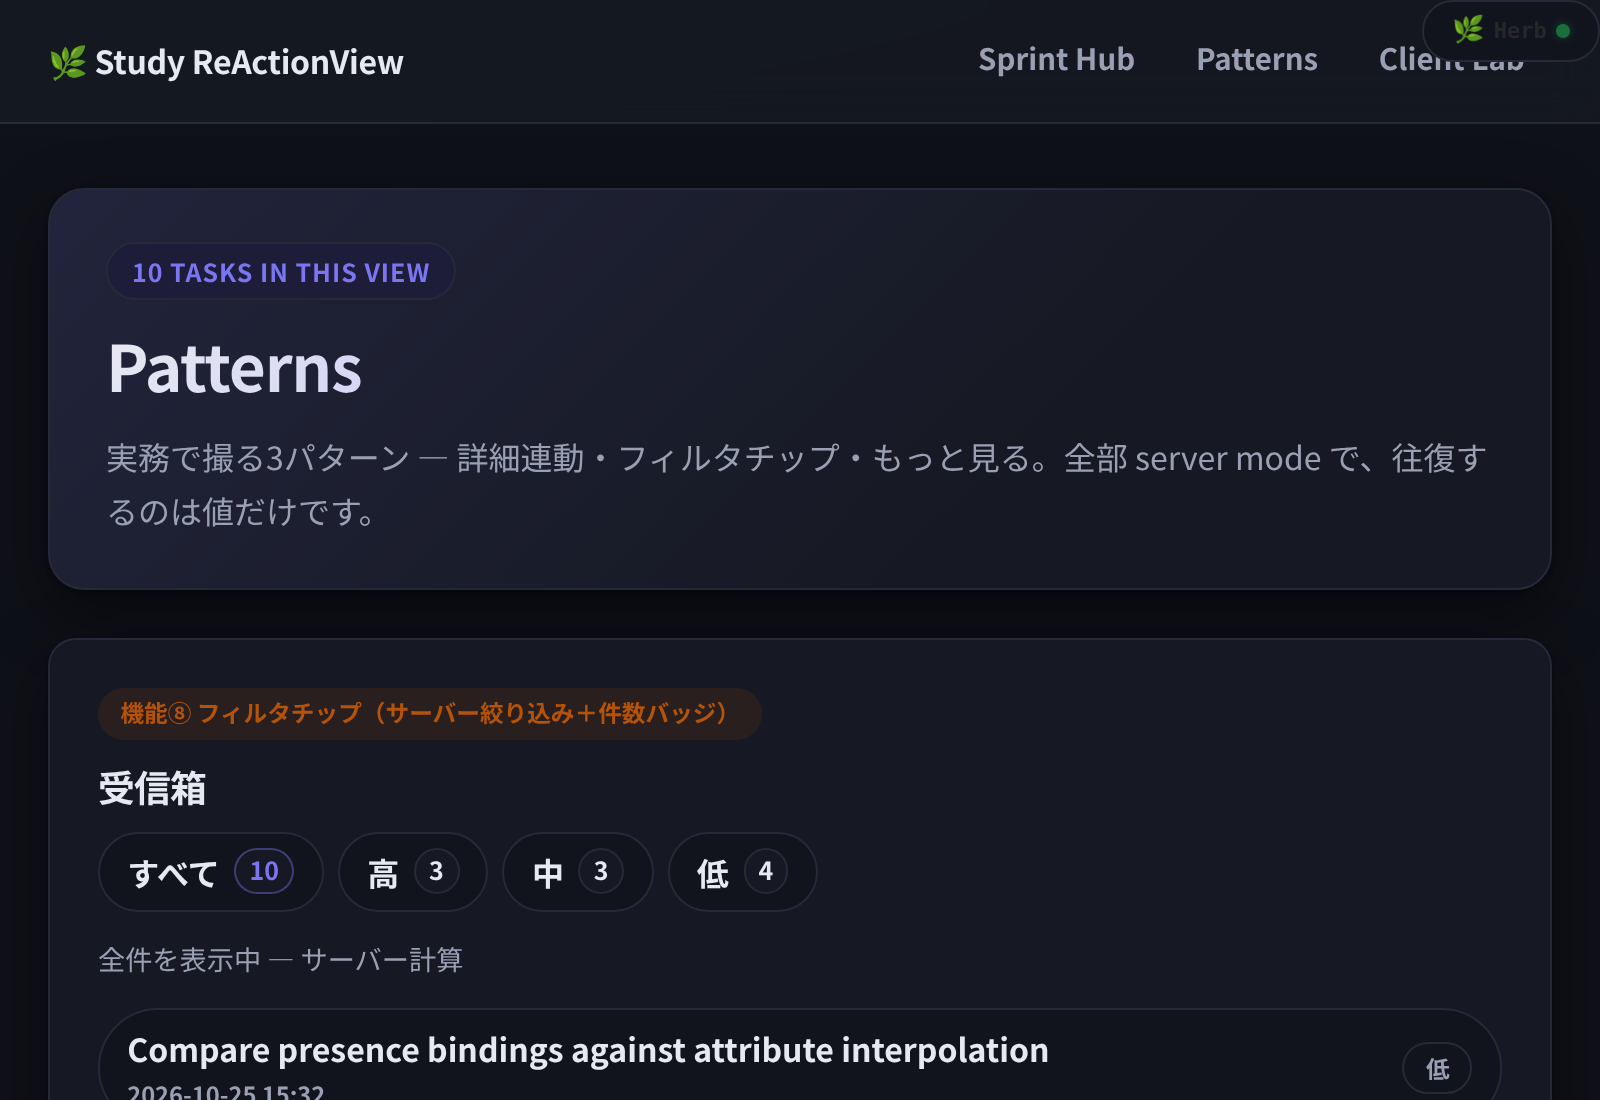
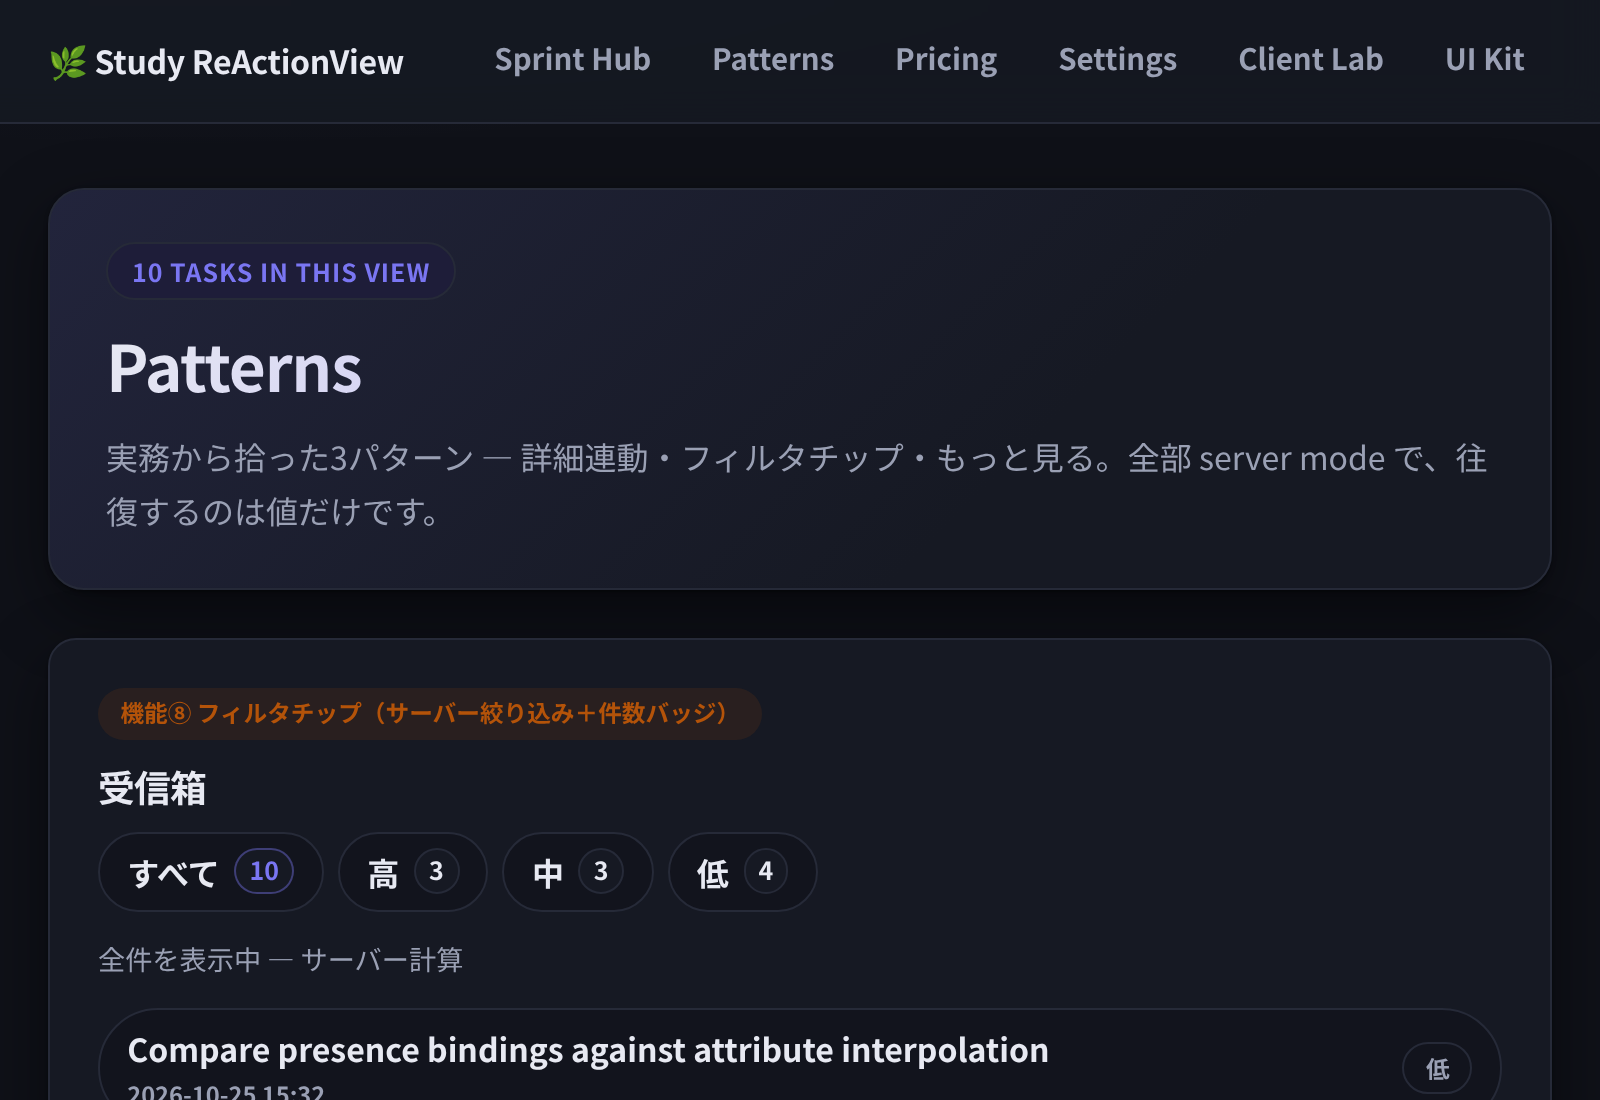
feat(settings): タブと依存フィールドをhiddenパネルに切り替え、メディアとドキュメントを追加 — parked分岐の初期値materializeを避けて0往復を保つため
トップレベルのparkedタブ分岐では、分岐内のdigest: trueがfalse側、checkedが未適用でmaterializeされた。3パネルをhiddenのpresenceで常にDOMに置き、依存フィールドも同じ形にした。プローブで全操作0 slotsを再確認し、17-settings.gifとstills、6リンクナビの既存stills/Hub 03/04を撮り直した。

diff --git a/test/controllers/settings_controller_test.rb b/test/controllers/settings_controller_test.rb
@@ -17,6 +17,8 @@ class SettingsFlowTest < ActionDispatch::IntegrationTest
     assert_select "h1", "Settings"
     assert_select ".settings-nav button", count: 3
     assert_select '.settings-nav button[aria-pressed="true"]', count: 1
+    assert_select ".settings-tab-panel", count: 3
+    assert_select ".settings-tab-panel[hidden]", count: 2
     assert_select "#settings_name"
     assert_select "#settings_email"
     assert_select "#settings_bio"
@@ -49,14 +51,15 @@ class SettingsFlowTest < ActionDispatch::IntegrationTest
       .flat_map { |c| Array(c["arms"]) }
       .map { |a| a["condition"]&.first }
       .compact
-    %w[tab public_profile dirty saved].each { |name| assert_includes conditions, name }
+    %w[dirty saved].each { |name| assert_includes conditions, name }
 
     presence = states["presence"].values.select { |p| p.is_a?(Array) }.map(&:first)
-    assert_includes presence, "can_save", "the save button's disabled is a presence read"
-    assert_includes presence, "public_profile", "the switch binds its boolean state"
+    %w[tab public_profile can_save].each do |name|
+      assert_includes presence, name, "#{name} is a hidden/checked/disabled presence read"
+    end
   end
 
-  test "notifications and billing panels are parked with dependent fields" do
+  test "notifications and billing panels are hidden with dependent fields" do
     get settings_path
 
     assert_includes response.body, "まとめ通知"
@@ -66,6 +69,9 @@ class SettingsFlowTest < ActionDispatch::IntegrationTest
     assert_includes response.body, 'data-herb-set="plan=starter dirty=true saved=false"'
     assert_includes response.body,
       'data-herb-reset="name email bio public_profile handle digest frequency updates plan annual invoice_name dirty saved"'
+    assert_select "#settings_handle[hidden]", count: 0
+    assert_select "div[hidden] #settings_handle", count: 1
+    assert_select "div[hidden] #settings_invoice_name", count: 1
   end
 
   test "the manifest declares the notification and billing states" do
@@ -76,12 +82,6 @@ class SettingsFlowTest < ActionDispatch::IntegrationTest
     %w[digest frequency updates plan annual invoice_name].each do |name|
       assert_includes names, name
     end
-
-    conditions = states["conditionals"].values
-      .flat_map { |c| Array(c["arms"]) }
-      .map { |a| a["condition"]&.first }
-      .compact
-    %w[digest annual].each { |name| assert_includes conditions, name }
 
     presence = states["presence"].values.select { |p| p.is_a?(Array) }.map(&:first)
     %w[digest updates annual].each { |name| assert_includes presence, name }

diff --git a/AGENTS.md b/AGENTS.md
@@ -15,6 +15,8 @@
 5画面目 `Pricing`（`/pricing`）: server mode の SaaS 見積もり。プラン・席数・年払い・サポートの4 state、
 サーバー計算、金額は READ slot、表示は state の表示属性（`data-active` / `hidden` の presence）
 （docs/hotwire-comparison.md の対比5）。
+6画面目 `Settings`（`/settings`）: client mode の設定フォーム。3タブ・依存フィールド・明示 dirty・
+デモ保存を、全操作 0 往復で扱う（下の実測メモ）。
 
 ## 作業規約（必ず守る）
 
@@ -208,9 +210,36 @@
   スコープしない既存ルールが pin にも当たり、done の取り消し線/背景が星で発火する。
 - **done と pin は独立**: ピンを2つ点けても done_count は動かず、done を1つ点けても
   pinned_count は 2 のまま（プローブで確認）。リロードで pin は消える（クライアント所有）。
-- **Hub の静止画/GIF は日本語フォントスタック**: `app.css` の `"Hiragino Sans"` /
+- **Hub と Settings の静止画/GIF は日本語フォントスタック**: `app.css` の `"Hiragino Sans"` /
   `"Noto Sans CJK JP"` / Meiryo / `"Yu Gothic"` を先に置き、キャプチャ側で `system-ui` だけの
   fallback に戻さない。
+
+## Settings 画面で実測した事実（0.6.0 / herb 0.11.1）
+
+- **トップレベルの parked タブ分岐は、分岐内の boolean バインディングと入れ子の分岐を初期値で
+  materialize する**: Settings のタブを `<% if tab == ... %>` で組むと、Notifications タブを開いても
+  `digest: true` の switch が unchecked、`if digest` の頻度フィールドが false 側で出た（headless Chromium）。
+  `hidden="<%= tab != ... %>"` の3パネルを常に DOM に置くと、switch の見た目も入力値も正しく保たれ、
+  タブ切替は 0 slots リクエストになる。依存フィールドも同じ `hidden` の presence で出し分ける。
+- **パネル単位の input/change ラッパーで dirty を合成できる**: パネルの
+  `data-herb-set="input->dirty=true saved=false change->dirty=true saved=false"` は、
+  自動バインドされた value / checked の書き込みと同居する。タブ切替はラッパーの外なので dirty にならない。
+- **`can_save: dirty && form_ok` を分割する**: `form_ok` は `name_ok` / `email_ok` / `bio_ok` / `handle_ok`
+  の AND、`handle_ok` は `!public_profile || handle != ""` の OR。保存ボタンは
+  `disabled="<%= !can_save %>"` の単一否定だけを読む。空の表示名・公開プロフィールで空のハンドル・
+  121字の自己紹介が、それぞれ保存を無効にすることをプローブで確認した。
+- **プランと頻度は literal set のボタン**: `data-herb-set="frequency=daily dirty=true saved=false"` は
+  空白区切りの別 binding として1クリックで両方動く。`data-herb-reset` の後も `aria-pressed` が
+  state から戻る（Team と毎週に戻ることをプローブで確認）。`<select>` は使わない — リセット後の
+  選択表示を state の読みで保証するため。
+- **保存はデモ**: `dirty=false saved=true` にするだけで、DB には書かない。リセットは書き込み可能な
+  state だけを初期値へ戻す（派生 state と `tab` は含めない）。リロードで全 state が初期値に戻る。
+  タブ切替・依存フィールド・dirty/save/reset・タブの往復・リロードは、すべて 0 slots リクエスト
+  （`/tmp/opencode/capture/settings-probe.js`）。
+- **6リンクナビに合わせて既存メディアを撮り直した**: Settings をグローバルナビに足したため、
+  Hub / Patterns / Client Lab / Pricing の stills と Hub の 03 / 04 GIF を再撮影した。
+  Settings の静止画/GIF は日本語フォントスタックで撮り、CDP の `CSS.getPlatformFontsForNode` で
+  実フォントが `Noto Sans CJK JP` であることを確認した。
 
 ## ブラウザ実測（headless Chromium・録画環境）で確定した事実
 

diff --git a/docs/superpowers/plans/2026-10-28-settings-screen.md b/docs/superpowers/plans/2026-10-28-settings-screen.md
@@ -6,6 +6,8 @@
 
 **Architecture:** A single client-mode template declares the form states and their derived gates (`name_ok`, `email_ok`, `bio_ok`, `handle_ok`, `form_ok`, `can_save`, `over`). Tabs and dependent fields are top-level parked branches. A panel-level `input`/`change` wrapper marks the form dirty; plan/frequency buttons carry their own literal sets so no `$value` + literal mixing is needed. Save/reset are browser state only.
 
+> **Implementation ruling (2026-10-28, Task 3):** the parked tab branches were replaced with `hidden` presence panels. The browser probe showed the parked branch materialized its nested `digest` arm false and left the boolean `checked` binding unapplied, so the frequency controls disappeared while the switch rendered off. The tab/dependent markup in Tasks 1–2 below is superseded by that ruling; the measured result is 0 slots requests.
+
 **Tech Stack:** Rails 8.1, Ruby 4.0.9, ReActionView 0.6.0, Herb 0.11.1, Minitest integration tests, plain CSS, Playwright capture outside the repo.
 
 **Spec:** `docs/superpowers/specs/2026-10-28-settings-screen-design.md`

diff --git a/docs/superpowers/specs/2026-10-28-settings-screen-design.md b/docs/superpowers/specs/2026-10-28-settings-screen-design.md
@@ -5,6 +5,11 @@
 - 対象: `/settings`
 - 前提: ReActionView 0.6.0 / herb 0.11.1
 
+> **実装時の裁定（2026-10-28、Task 3）**: タブは当初の設計どおりトップレベル分岐で実装したが、
+> ブラウザ実測で分岐内の `digest: true` の switch が unchecked、入れ子の頻度分岐が false 側で
+> materialize された。タブと依存フィールドは `hidden` の presence パネルに変更し、0 slots を再確認した。
+> 以下の「タブの分岐」という記述は、この裁定で置き換える。
+
 ## 目的
 
 実務で定番の設定画面を client mode で作る。プロフィール・通知・請求の3タブ、依存フィールド、未保存状態、保存／リセットを、すべてブラウザ内で完結させる。保存は**デモ**で、DB には書かない（リロードで初期値に戻る）。
